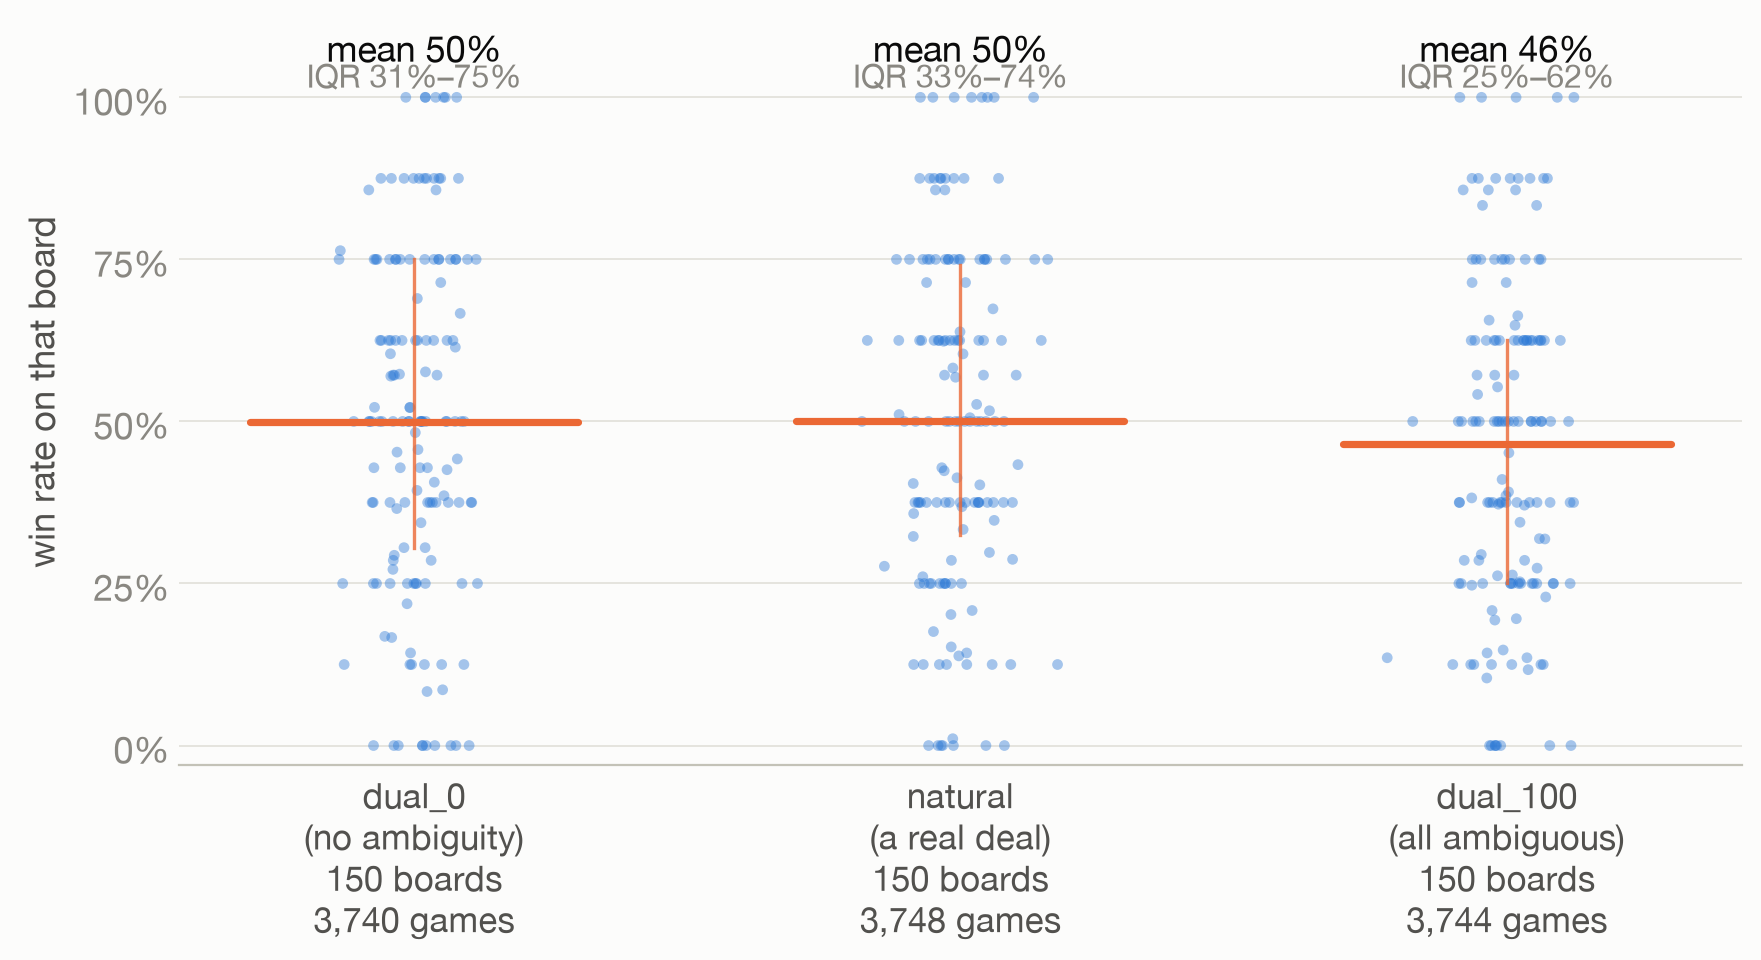
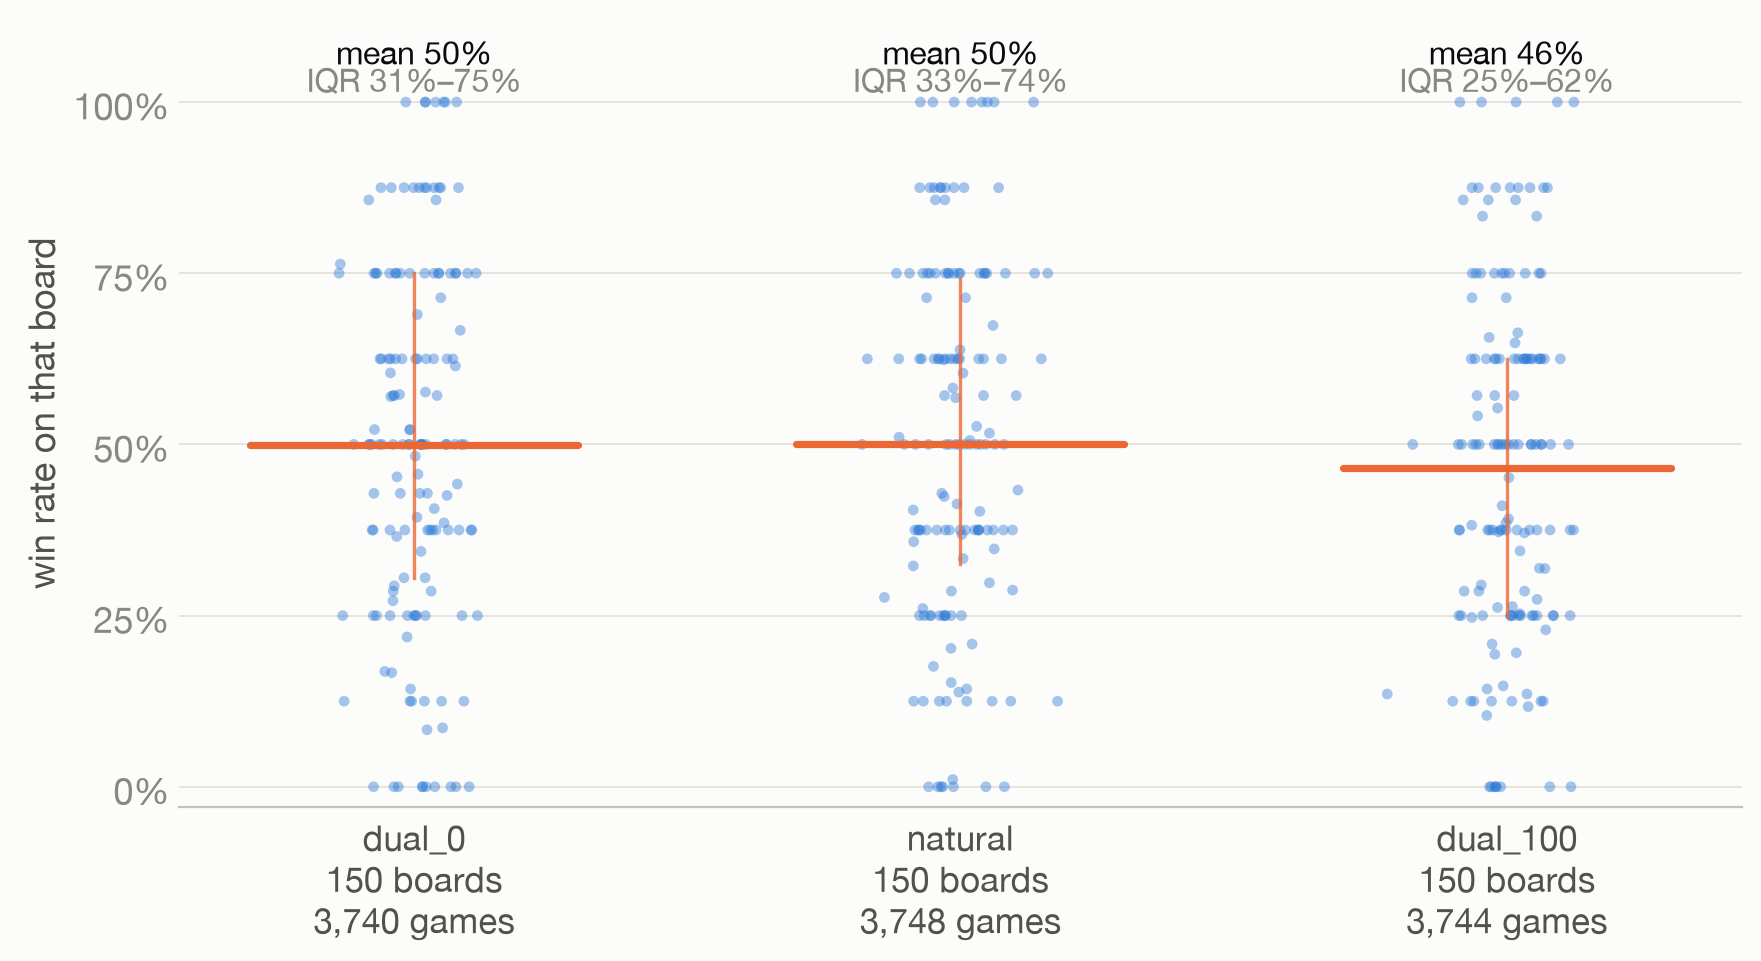
docs(paper): larger type on the gloss chart, tidier board-variance axis
fig28's own base sizes are smaller than the rest of the set and it is
drawn on a wider canvas, so the shared 1.45x scale left it the smallest
text in the document; it now takes a further 1.45x. Two knock-on fixes in
plots.gloss_sense_split: row height follows the type, since a two-line
model label at that size ran into its neighbour, and only the ends of the
symmetric axis are labelled, since the inner 50% marks collided.

fig22's mean label drops to the IQR label's size, and the style glosses
("no ambiguity", "a real deal", "all ambiguous") come off the axis - they
belong in the caption, and repeating them crowded the boards/games note
that actually varies between columns.

Claude-Session: https://claude.ai/code/session_01M282Xge4AXvZBmBRWEKr1V

diff --git a/scripts/paper_figures.py b/scripts/paper_figures.py
@@ -669,10 +669,13 @@ def fig_board_variance(g):
         ax.plot([i - 0.30, i + 0.30], [vals.mean()] * 2, color=SERIES[1], lw=2.6,
                 zorder=5, solid_capstyle="round")
         ax.plot([i, i], [q1, q3], color=SERIES[1], lw=1.2, zorder=4, alpha=0.8)
-        ax.text(i, 1.055, f"mean {vals.mean():.0%}", ha="center", fontsize=fs(9), color=INK)
+        ax.text(i, 1.055, f"mean {vals.mean():.0%}", ha="center", fontsize=fs(8), color=INK)
         ax.text(i, 1.015, f"IQR {q1:.0%}–{q3:.0%}", ha="center", fontsize=fs(8), color=MUTED)
     ax.set_xticks(range(len(STYLE_ORDER)))
-    ax.set_xticklabels([f"{STYLE_LABEL[s]}\n{board_note(done[done.board_style == s])}"
+    # The style name alone: the gloss ("no ambiguity", "a real deal") belongs in
+    # the caption, and repeating it three times under the axis crowds the note
+    # that actually varies.
+    ax.set_xticklabels([f"{s}\n{board_note(done[done.board_style == s])}"
                         for s in STYLE_ORDER], fontsize=fs(8.6), color=INK_2)
     ax.set_ylim(-0.03, 1.12)
     ax.set_yticks([0, .25, .5, .75, 1])
@@ -937,7 +940,10 @@ def fig_gloss(g, r):
             f"English-Pivot rounds on the factorial — {rounds:,} board-word glosses. "
             f"Grey = the model named both senses; a bar short of full width means it "
             f"named neither ({unrel:.0%} overall)."),
-        font_scale=FONT_SCALE,
+        # The gloss chart's own base sizes are smaller than the rest of the set
+        # and it is drawn on a wider canvas, so it needs a further boost to
+        # land at the same size on the page.
+        font_scale=FONT_SCALE * 1.45,
     )
     return fig
 

diff --git a/src/codenames_heb/plots.py b/src/codenames_heb/plots.py
@@ -1280,8 +1280,11 @@ def gloss_sense_split(shares, words, models, *, title=None, subtitle=None,
 
     ncols = 3
     nrows = -(-len(words) // ncols)
+    # Row height follows the type: at font_scale 2 a two-line model label is
+    # twice as tall, and a fixed 0.42in row runs the labels together.
+    row_h = 0.42 * max(1.0, font_scale * 0.8)
     fig, axes = plt.subplots(
-        nrows, ncols, figsize=(4.6 * ncols, 0.42 * len(models) * nrows + 1.15 * nrows),
+        nrows, ncols, figsize=(4.6 * ncols, row_h * len(models) * nrows + 1.15 * nrows),
         squeeze=False,
     )
     fig.patch.set_facecolor(GLOSS_SURFACE)
@@ -1330,7 +1333,11 @@ def gloss_sense_split(shares, words, models, *, title=None, subtitle=None,
         ax.set_yticks([-j for j in range(len(models))])
         ax.set_yticklabels(tick_labels, fontsize=fs(7.4), color=GLOSS_INK_2)
         ax.set_xticks([-1, -0.5, 0, 0.5, 1])
-        ax.set_xticklabels(["100%", "50%", "", "50%", "100%"], fontsize=fs(6.4), color=GLOSS_MUTED)
+        # Only the ends are labelled. The axis is symmetric about the midpoint
+        # and the inner marks sit close enough to collide once the type is
+        # scaled for print; the gridlines still carry the 50% positions.
+        ax.set_xticklabels(["100%", "", "", "", "100%"], fontsize=fs(6.4),
+                           color=GLOSS_MUTED)
         ax.set_title(f"{word}      {a_label} ‹ › {b_label}", fontsize=fs(9.5), color=GLOSS_INK,
                      pad=6)
         ax.tick_params(length=0)
